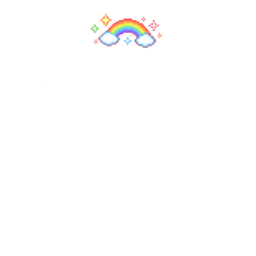
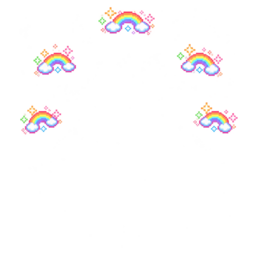
fix: prototype rear rainbow aura and repair admin scroll

diff --git a/avatar-assets.css b/avatar-assets.css
@@ -32,9 +32,11 @@
 .avatar-shoes {
   z-index: 5 !important;
 }
-.avatar-expression,
-.avatar-effect {
+.avatar-expression {
   z-index: 6 !important;
+}
+.avatar-effect {
+  z-index: 0 !important;
 }
 .avatar-hat,
 .avatar-glasses,
@@ -76,6 +78,9 @@
 }
 .preview-expression {
   z-index: 6 !important;
+}
+.preview-effect {
+  z-index: 0 !important;
 }
 .preview-hat,
 .preview-glasses,
@@ -149,9 +154,11 @@
 .sv-rank-shoes {
   z-index: 4 !important;
 }
-.sv-rank-expression,
-.sv-rank-effect {
+.sv-rank-expression {
   z-index: 5 !important;
+}
+.sv-rank-effect {
+  z-index: 0 !important;
 }
 .sv-rank-hat,
 .sv-rank-glasses,
@@ -210,6 +217,25 @@
 }
 .shop-preview-part {
   z-index: 3;
+}
+.shop-preview-effect,
+.admin-avatar-effect,
+.admin-shop-product-preview .shop-preview-effect,
+.sv-profile-effect,
+.sv-exp2-effect,
+.sv-exp-avatar-effect {
+  z-index: 0 !important;
+}
+[data-avatar-item^="effect-"] img {
+  animation: studyvillage-effect-sparkle 2.4s ease-in-out infinite;
+  transform-origin: 50% 42%;
+}
+@keyframes studyvillage-effect-sparkle {
+  0%,100% { opacity: .78; filter: brightness(.96) drop-shadow(0 0 1px #fff8); }
+  50% { opacity: 1; filter: brightness(1.14) drop-shadow(0 0 3px #fff); }
+}
+@media (prefers-reduced-motion: reduce) {
+  [data-avatar-item^="effect-"] img { animation: none; }
 }
 /* Production one-piece preview contract, 2026-08-31.
    Do not rely on :has(): the classroom Samsung browser must receive the same result.

diff --git a/assets/admin-quick-navigation.js b/assets/admin-quick-navigation.js
@@ -28,7 +28,7 @@
   const jump=target=>{if(!target)return false;target.scrollIntoView({behavior:'smooth',block:'start'});target.classList.add('admin-jump-highlight');setTimeout(()=>target.classList.remove('admin-jump-highlight'),1300);return true};
   for(const[label,resolver]of items){const button=document.createElement('button');button.type='button';button.textContent=label;button.onclick=()=>{const target=resolver();if(!jump(target))setTimeout(()=>jump(resolver()),350)};nav.appendChild(button)}
   const header=app.querySelector('header'),actions=header?.querySelector('.actions'),sticky=document.createElement('div');sticky.className='admin-sticky-controls';if(actions)sticky.appendChild(actions);sticky.appendChild(nav);header?.after(sticky);if(!header)app.prepend(sticky);
-  const organizeQuestionPanels=()=>{let anchor=nav;for(const selector of ['#question-review-panel','#question-editor-panel','#question-catalog-panel']){const target=document.querySelector(selector);if(!target)continue;anchor.after(target);anchor=target}};
+  const organizeQuestionPanels=()=>{let anchor=sticky;for(const selector of ['#question-review-panel','#question-editor-panel','#question-catalog-panel']){const target=document.querySelector(selector);if(!target)continue;anchor.after(target);anchor=target}};
   setTimeout(organizeQuestionPanels,1000);
 
   function decorateStudentRows(){

diff --git a/avatar-basic-pack-contract-selftest.js b/avatar-basic-pack-contract-selftest.js
@@ -16,7 +16,7 @@ assert.ok(ranking.includes("['outfit','effect','bottom','shoes','hat','glasses',
 assert.ok(server.includes('equipment:rankingEquipment(row)'),'ranking API must return allowlisted equipment');
 assert.ok(admin.includes("for(const slot of ['hair','effect','outfit','pet'])"),'teacher student table must paint canonical avatar layers');
 assert.ok(adminShop.includes('admin-shop-product-preview'),'teacher shop must render graphical product previews');
-assert.ok(adminHtml.includes('avatar-renderer.js?v=20260909effecttop2'),'teacher mode must load the current complete-character renderer');
+assert.ok(adminHtml.includes('avatar-renderer.js?v=20260909effecthalo1'),'teacher mode must load the current complete-character renderer');
 const reset=itemShop.slice(itemShop.indexOf('function resetRetiredLayerPurchases'),itemShop.indexOf('function readPrices'));
 for(const token of ["COMPLETE_CHARACTER_RESET_KEY='avatar:complete-character-reset:v1'","equipment_json='{}'","owned_items_json='[]'"])assert.ok(itemShop.includes(token),`one-time complete-character reset missing: ${token}`);
 assert.ok(!reset.includes('stars=')&&!reset.includes('DELETE FROM star_ledger'),'complete-character cleanup must preserve stars and their ledger');

diff --git a/student-pet-and-ranking-effect-contract-selftest.js b/student-pet-and-ranking-effect-contract-selftest.js
@@ -9,7 +9,9 @@ assert.ok(ranking.includes('class="sv-rank-effect"'), 'student ranking must crea
 assert.ok(/"outfit",\s*"effect",/.test(ranking), 'student ranking must paint equipped effects');
 assert.ok(css.includes('[data-avatar-item^="pet-"] img'), 'student pet images must share the authored master canvas');
 assert.ok(css.includes('transform: none !important'), 'student pet artwork must not receive an extra transform');
-assert.ok(index.includes('avatar-assets.css?v=20260909studentpet2'), 'student pet CSS cache key must be current');
+assert.ok(index.includes('avatar-assets.css?v=20260909sparkle1'), 'student avatar CSS cache key must be current');
 assert.ok(index.includes('student-stability-fixes.js?v=20260909studentpet2'), 'student ranking cache key must be current');
+assert.ok(css.includes('.avatar-effect {')&&css.includes('z-index: 0 !important'), 'effects must render behind the character and pet');
+assert.ok(css.includes('animation: studyvillage-effect-sparkle 2.4s'), 'static effect PNGs must use the lightweight sparkle animation');
 
 console.log('student pet and ranking effect contract self-test passed');

diff --git a/index.html b/index.html
@@ -5,7 +5,7 @@
     <meta name="viewport" content="width=device-width,initial-scale=1" />
     <title>우리 학습마을</title>
     <link rel="stylesheet" href="style.css?v=20260827r11" />
-    <link rel="stylesheet" href="avatar-assets.css?v=20260909studentpet2" />
+    <link rel="stylesheet" href="avatar-assets.css?v=20260909sparkle1" />
     <link rel="stylesheet" href="building-interiors.css?v=20260902r1" />
     <link rel="stylesheet" href="library-game.css?v=20260828v4" />
     <link rel="stylesheet" href="activity-records.css" />
@@ -233,7 +233,7 @@
     <script src="sound-effects.js?v=20260827v2"></script>
     <script src="game.js?v=20260828v3"></script>
     <script src="student-session.js?v=20260830r2"></script>
-<script src="avatar-renderer.js?v=20260909effecttop2"></script>
+<script src="avatar-renderer.js?v=20260909effecthalo1"></script>
     <script src="assets/avatar-base-variants-v1.js?v=20260901heads1"></script>
     <script src="assets/avatar-special-outfit-overhaul-v2.js?v=20260830a"></script>
     <script src="assets/avatar-visual-overhaul-v1.js?v=20260830a"></script>

diff --git a/avatar-renderer.js b/avatar-renderer.js
@@ -86,7 +86,7 @@ window.StudyVillageAvatar=(()=>{
     'effect-heart-aura':{src:`${RPG}production/effects/heart-aura.png?v=20260909effecttop2`,alt:'두근두근 하트 효과'},
     'effect-snow-aura':{src:`${RPG}production/effects/snow-aura.png?v=20260909sizefix1`,alt:'반짝 눈송이 효과'},
     'effect-music-aura':{src:`${RPG}production/effects/music-aura.png?v=20260909effecttop2`,alt:'신나는 음표 효과'},
-    'effect-rainbow-aura':{src:`${RPG}production/effects/rainbow-aura.png?v=20260909effecttop2`,alt:'희망 무지개 효과'},
+    'effect-rainbow-aura':{src:`${RPG}production/effects/rainbow-aura.png?v=20260909effecthalo1`,alt:'희망 무지개 효과'},
     'effect-daydream-aura':{src:`${RPG}production/effects/daydream-aura.png?v=20260909effecttop2`,alt:'멍한 생각 효과'},
     'effect-focus-aura':{src:`${RPG}production/effects/focus-aura.png?v=20260909effecttop2`,alt:'집중 느낌 효과'},
     'effect-bunny-aura':{src:`${RPG}production/effects/bunny-aura.png?v=20260909effecttop2`,alt:'토끼 풍선 효과'},

diff --git a/admin-sticky-controls-contract-selftest.js b/admin-sticky-controls-contract-selftest.js
@@ -4,6 +4,7 @@ const delivery=fs.readFileSync('assets/admin-delivery-notifications.js','utf8');
 const html=fs.readFileSync('admin.html','utf8');
 assert.ok(nav.includes('.admin-sticky-controls{position:sticky;top:0'),'main admin controls must remain visible while scrolling');
 assert.ok(nav.includes('sticky.appendChild(actions)')&&nav.includes('sticky.appendChild(nav)'),'actions and quick navigation must share one sticky stack');
+assert.ok(nav.includes('let anchor=sticky')&&!nav.includes('let anchor=nav'),'admin panels must remain outside the sticky controls');
 assert.ok(delivery.includes("document.querySelector('#refresh-button')?.click()"),'new delivery requests must refresh visible admin data');
 assert.ok(html.includes('admin-delivery-notifications.js?v=20260909sticky1')&&html.includes('admin-quick-navigation.js?v=20260909sticky2'),'admin sticky controls must use fresh cache keys');
 console.log('admin sticky controls contract self-test passed');

diff --git a/admin.html b/admin.html
@@ -6,7 +6,7 @@
     <title>Studyvillage 교사용</title>
     <link rel="stylesheet" href="admin.css?v=20260827v2" />
     <link rel="stylesheet" href="admin-checkpoints.css" />
-    <link rel="stylesheet" href="avatar-assets.css?v=20260902art4" />
+    <link rel="stylesheet" href="avatar-assets.css?v=20260909sparkle1" />
   </head>
   <body>
     <main class="admin-wrap">
@@ -204,7 +204,7 @@
     <script src="admin-network-guard.js?v=20260825r8"></script>
     <script src="admin-restore-guard.js?v=v1-restore2"></script>
     <script src="admin-restore-preflight.js"></script>
-    <script src="avatar-renderer.js?v=20260909effecttop2"></script>
+    <script src="avatar-renderer.js?v=20260909effecthalo1"></script>
     <script src="admin.js?v=20260825r8"></script>
     <script src="admin-student-edit.js?v=20260825r8"></script>
     <script src="admin-checkpoints.js"></script>
